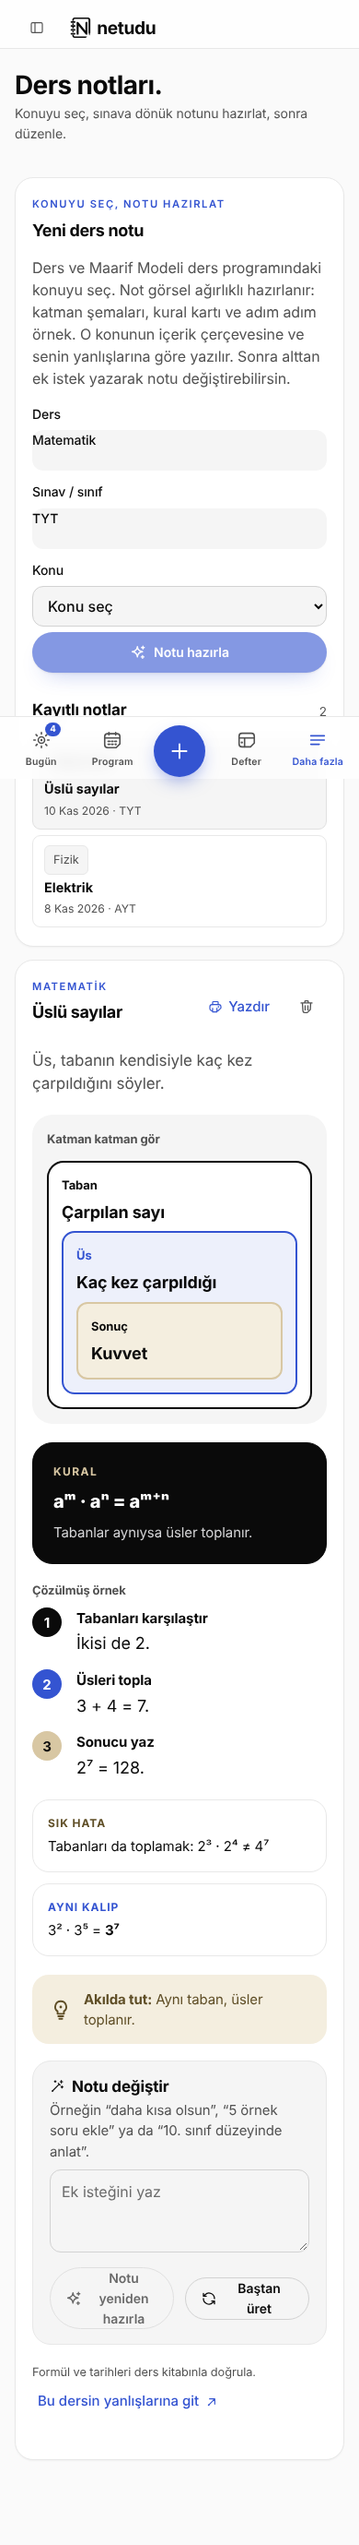
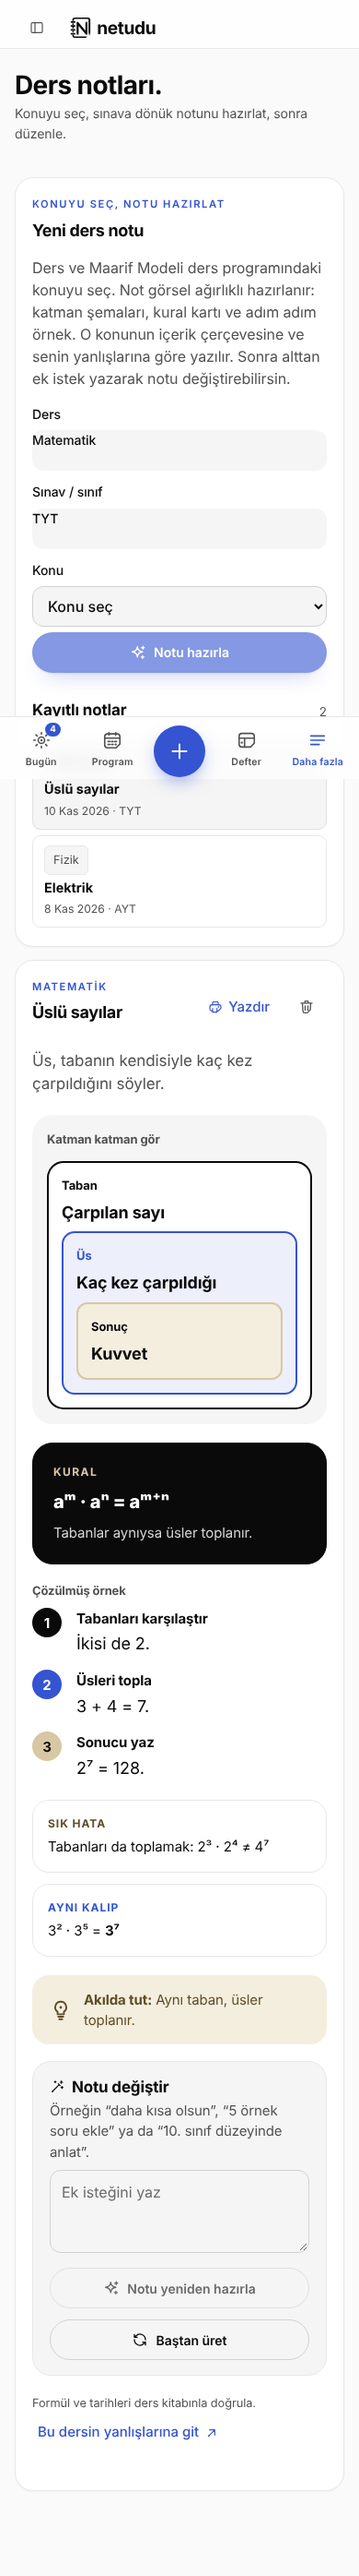
fix: inceleme 1 bulgulari (390px eylem kirilmasi, olu kod temizligi, PROOF tur 2)
Claude-Session: https://claude.ai/code/session_01LZzfsq4dMcPMMRDwuSXYis

diff --git a/app/study/report.tsx b/app/study/report.tsx
@@ -5,7 +5,7 @@ import {toast} from 'sonner';
 import {monthlyTopics,unrecognizedCount,prevMonth,today,type Goal,type Report} from '@/lib/study';
 import {useStudy,Empty,api,postJson,monthLabel,download,ApiError,QuotaNote} from './shared';
 import {subjectClass} from './archive';
-export function ReportView({month,setMonth,notes,setNotes,goals,setGoals,onPrint}:{month:string;setMonth:(m:string)=>void;notes:string;setNotes:(n:string)=>void;goals:Goal[];setGoals:(g:Goal[])=>void;onPrint:()=>void}){const s=useStudy();const {rows,ai,busy}=s;const topics=monthlyTopics(rows,month);const [loading,setLoading]=useState(false),[saved,setSaved]=useState(''),[previous,setPrevious]=useState<Report|null>(null),[working,setWorking]=useState(false),[newGoal,setNewGoal]=useState('');const monthRef=useRef(month);monthRef.current=month;const before=prevMonth(month);const prevTotal=rows.filter(q=>q.date.startsWith(before)).length;const total=rows.filter(q=>q.date.startsWith(month)).length;const unknown=unrecognizedCount(rows,month);
+export function ReportView({month,notes,setNotes,goals,setGoals,onPrint}:{month:string;notes:string;setNotes:(n:string)=>void;goals:Goal[];setGoals:(g:Goal[])=>void;onPrint:()=>void}){const s=useStudy();const {rows,ai,busy}=s;const topics=monthlyTopics(rows,month);const [loading,setLoading]=useState(false),[saved,setSaved]=useState(''),[previous,setPrevious]=useState<Report|null>(null),[working,setWorking]=useState(false),[newGoal,setNewGoal]=useState('');const monthRef=useRef(month);monthRef.current=month;const before=prevMonth(month);const prevTotal=rows.filter(q=>q.date.startsWith(before)).length;const total=rows.filter(q=>q.date.startsWith(month)).length;const unknown=unrecognizedCount(rows,month);
  useEffect(()=>{let cancelled=false;setLoading(true);setNotes('');setGoals([]);setSaved('');setPrevious(null);api('/api/reports?month='+month).then(d=>{if(cancelled)return;setNotes(d.report?.notes||'');setGoals(d.report?.goals||[]);setSaved(d.report?.updated_at||'');setPrevious(d.previous)}).catch(e=>{if(!cancelled&&!(e instanceof ApiError&&e.status===401))toast.error(e.message)}).finally(()=>{if(!cancelled)setLoading(false)});return()=>{cancelled=true}},[month,setNotes,setGoals]);
  async function save(generate=false,nextGoals=goals){setWorking(true);try{const d=await postJson('/api/reports',{month,...(generate?{generate:true}:{notes,goals:nextGoals})});if(monthRef.current!==month){if(generate)s.bumpUsage('report');return}setNotes(d.report!.notes);setGoals(d.report!.goals);setSaved(d.report!.updated_at);if(generate)s.bumpUsage('report');toast.success(generate?'Notların ve gelecek ay hedeflerin hazır.':'Rapor kaydedildi.')}catch(e){toast.error((e as Error).message)}finally{setWorking(false)}}
  async function togglePrevGoal(i:number){if(!previous)return;const g=previous.goals.map((x,j)=>j===i?{...x,done:!x.done}:x);setPrevious({...previous,goals:g});try{await postJson('/api/reports',{month:before,notes:previous.notes,goals:g})}catch(e){toast.error((e as Error).message)}}

diff --git a/scripts/preview/rapor-entry.tsx b/scripts/preview/rapor-entry.tsx
@@ -24,7 +24,7 @@ export const sampleNote=serializeNote({title:'Üslü sayılar',oneLiner:'Üs, ta
  mistakes:['Tabanları da toplamak: 2³ · 2⁴ ≠ 4⁷'],patterns:[{q:'3² · 3⁵',a:'3⁷'}],memory:'Aynı taban, üsler toplanır.'} as any);
 export const sampleNotes=[{id:'n1',subject:'Matematik',topic:'Üslü sayılar',exam_type:'TYT',content:sampleNote,prompt:'',updated_at:'2026-11-10T10:00:00Z'},{id:'n2',subject:'Fizik',topic:'Elektrik',exam_type:'AYT',content:'Düz metin not.',prompt:'',updated_at:'2026-11-08T10:00:00Z'}] as any[];
 const goals=[{text:'Paragrafta günde 10 soru',done:true},{text:'Hafta sonu bir TYT denemesi',done:false}];
-export const rapor=(o:any={})=>frame('report',<ReportView month="2026-11" setMonth={()=>{}} notes={o.empty?'':'Türev ve limitte işlem hatası yaptım; haftada iki kez tekrar edeceğim.'} setNotes={()=>{}} goals={o.empty?[]:goals} setGoals={()=>{}} onPrint={()=>{}}/>,{month:'2026-11',setMonth(){},onAddExam(){}});
+export const rapor=(o:any={})=>frame('report',<ReportView month="2026-11" notes={o.empty?'':'Türev ve limitte işlem hatası yaptım; haftada iki kez tekrar edeceğim.'} setNotes={()=>{}} goals={o.empty?[]:goals} setGoals={()=>{}} onPrint={()=>{}}/>,{month:'2026-11',setMonth(){},onAddExam(){}});
 export const denemeler=(o:any={})=>frame('exams',<ExamsView/>,{study:{exams:o.empty?[]:exams},month:'2026-11',setMonth(){},onAddExam(){}});
 export const notlar=(o:any={})=>frame('notes',<NotesView preset={null} initialNotes={o.empty?[]:sampleNotes} initialSelected={o.empty?null:sampleNotes[0]}/>);
 export const ayarlar=(tab:string,dev:boolean)=>frame('settings',<SettingsView initialTab={tab}/>,{dev});

diff --git a/app/styles/98-rapor-not-ayarlar.css b/app/styles/98-rapor-not-ayarlar.css
@@ -2,6 +2,8 @@
 /* Başlık eylemleri: ay seçici (ikincil) + Yazdır / PDF; Denemeler'de tek birincil "Deneme ekle" (mobilde de görünür) */
 .page-heading .month-select{display:inline-flex;align-items:center;gap:var(--s2);min-height:var(--h-btn);padding:0 var(--s3);border:1px solid var(--line);border-radius:var(--r-sm);background:var(--surface);color:var(--fg)}
 .page-heading .actions .month-select input{min-height:var(--h-btn);border:0;background-color:transparent;box-shadow:none;color:inherit;font:inherit;padding:0}
+.page-heading .actions .secondary{white-space:nowrap}
+.page-heading .month-select{min-width:0}
 .page-heading .actions .primary.heading-add{display:inline-flex;min-height:var(--h-btn);flex:0 0 auto}
 @media(max-width:767px){.page-heading .actions .primary.heading-add{flex:1 1 100%}.page-heading .month-select{flex:1 1 auto}}
 /* dokunma hedefi en az 44px */
@@ -34,6 +36,7 @@
 .view[data-view=notes] .note-actions{display:grid;grid-template-columns:repeat(2,minmax(0,1fr));gap:var(--s3)}
 .view[data-view=notes] .note-actions>*{width:100%}
 @media(max-width:1000px){.view[data-view=notes] .notes-layout{grid-template-columns:minmax(0,1fr)}}
+@media(max-width:480px){.view[data-view=notes] .note-actions{grid-template-columns:minmax(0,1fr)}.page-heading .month-select,.page-heading .actions .secondary{flex:1 1 100%;min-width:0}.settings-tablist [role=tab]{padding:0 var(--s3)}}
 .view[data-view=notes] .nv-memory{background:var(--champ-bg);color:var(--champ-ink)}
 /* Ayarlar: sekmeler + bölüm yığını; Kaydet bölümün sağ altında */
 .settings-tabs [data-slot=tabs]{display:flex;flex-direction:column;gap:var(--s4)}

diff --git a/app/styles/20-mobil-ve-tema.css b/app/styles/20-mobil-ve-tema.css
@@ -18,7 +18,7 @@
  .filter-bar{gap:8px}.filter-bar .search-field{flex:0 0 100%;min-width:100%}.filter-bar .choice,.filter-bar input[type=month]{flex:1 1 calc(50% - 4px);min-width:calc(50% - 4px)}
  .archive-toolbar{flex-direction:column;align-items:stretch;gap:10px}.archive-toolbar .actions{flex-wrap:wrap}.archive-toolbar .segmented{width:100%}.archive-toolbar .segmented button{flex:1;justify-content:center}
  .group>header{padding:12px 14px}.topic-head{padding:11px 14px}
- .report-toolbar{flex-wrap:wrap;gap:10px}.report-toolbar>.text-button{display:none}.report-layout,.settings-grid,.notes-layout{grid-template-columns:1fr;gap:14px}
+ .report-toolbar{flex-wrap:wrap;gap:10px}.report-layout,.notes-layout{grid-template-columns:1fr;gap:14px}
  .notification-strip{flex-wrap:wrap}.notification-strip .secondary{width:100%}
  .form-grid{grid-template-columns:1fr;gap:12px;margin:12px 0}.profile-panel .form-grid{grid-template-columns:1fr}
  input,select,textarea,.choice-native{font-size:16px!important}

diff --git a/app/study-app.tsx b/app/study-app.tsx
@@ -101,7 +101,7 @@ export default function StudyApp(){
  {view==='program'&&<ProgramView/>}
  {view==='resources'&&<ResourcesView/>}
  {view==='archive'&&<ArchiveView subject={subject} setSubject={setSubject} filteredRef={filteredRef} onPrint={()=>print()}/>}
- {view==='report'&&<ReportView month={month} setMonth={setMonth} notes={notes} setNotes={setNotes} goals={goals} setGoals={setGoals} onPrint={()=>print()}/>}
+ {view==='report'&&<ReportView month={month} notes={notes} setNotes={setNotes} goals={goals} setGoals={setGoals} onPrint={()=>print()}/>}
  {view==='exams'&&<ExamsView/>}
  {view==='notes'&&<NotesView preset={notesPreset}/>}
  {view==='settings'&&<SettingsView/>}

diff --git a/docs/proof/feat-rapor-not-ayarlar/PROOF.md b/docs/proof/feat-rapor-not-ayarlar/PROOF.md
@@ -31,13 +31,6 @@ Tam ölçüm: `olcum-sonraki.json` (60 ekran: rapor, rapor-bos, denemeler, denem
 | `ND_ZOD_PATH=/opt/npm-tools/node_modules/zod/index.js npm test` | tümü yeşil, atlanan yok | 99 test, 99 geçti, 0 kaldı, 0 atlandı (85 + 14 yeni) | 0 | PASS |
 | `node scripts/rapor-preview.mjs` (MODE=sonraki) | 60 ekranda sw==cw, kırpılan/küçük hedef yok, birincil ≤1 | 60/60 temiz | 0 | PASS |
 
-## Orkestratör doğrulaması
-- Test komutu tekrar çalıştırıldı:
-- `git diff --stat` kapsam kontrolü:
-- Aralık/Yeniden üretme:
-- Görseller:
-- Süreç/port temizliği:
-
 ## Kapsam dışı / bilinen eksikler
 - Radix Tabs/menüleri gerçek tarayıcıda doğrulanamadı; önizleme düz karşılık kullanır (ui-stubs). Sekme tıklaması, klavye gezinmesi, odak halkası ve `[role=tab]` stilinin Radix çıktısında tutması Vercel önizlemesinde teyit edilmeli.
 - recharts önizlemede düz kutu: çizgi/çubuk renkleri yalnız kaynak testiyle doğrulandı, gerçek çizim görülmedi.
@@ -56,3 +49,15 @@ Tam ölçüm: `olcum-sonraki.json` (60 ekran: rapor, rapor-bos, denemeler, denem
 
 - `ND_ZOD_PATH=/opt/npm-tools/node_modules/zod/index.js npm test` yeniden koşuldu: 99/99, çıkış 0.
 - Radix sekmeleri/menüleri, recharts ve `tsc` bu ortamda doğrulanamadı; Vercel önizlemesinde teyit gerekir.
+
+## Tur 2 (inceleme 1, SKOR 4 bulguları)
+- Kök neden: eşit genişlikli 2 sütunlu `.note-actions` grid'i ve `flex:1 1 auto` ay seçici 390px'te düğmeleri daraltıp metni 2-3 satıra kırdı.
+- Düzeltme (yalnız CSS, `@media(max-width:480px)`): `.note-actions` tek sütun; rapor başlığında ay seçici ve "Yazdır / PDF" tam genişlikte alt alta, `white-space:nowrap`, `min-width:0`. Ayarlar sekmelerinin iç boşluğu 480 altında `--s3`'e düşürüldü (geliştirici hesabında 5. sekme hâlâ yatay kaydırmayla ulaşılır, kısmen kırpık görünür).
+- Küçükler: `ReportView`'dan ölü `setMonth` parametresi kaldırıldı; önizleme betiği (aynı iki dal, boş `extra`, yarım yorum) ve testteki `const skip=false` temizlendi; ölü `.report-toolbar>.text-button` kuralı ve 20-mobil-ve-tema.css'teki `.settings-grid` seçici öğesi kaldırıldı (50-v10-v11.css ve 68. satırdaki `.settings-grid` kuralları başka dosyalarda olduğu için dokunulmadı).
+- Ölçüm: `scripts/rapor-preview.mjs`'e `kirikDugme` (düğme yüksekliği > 56px; `.note-list` kartları ve `.segmented` düğmeleri, tasarım gereği çok satırlı/ikonlu olduğundan hariç) denetimi eklendi: 60/60 ekranda kırık düğme 0, taşma 0, kırpılan 0, küçük hedef 0. notlar-390 eylem genişlikleri 282/282, rapor-390 başlık eylemleri 358/358.
+- Test: `npm test` 99/99 yeşil, çıkış 0. PNG'ler yenilendi; notlar-390, rapor-390, ayarlar-developer-gelistirici-390 gözle kontrol edildi.
+- Bilinen küçük sapmalar (kod değiştirilmedi): Supabase bölüm kaydetme sırası planla birebir değil; ayarlar form kırılma noktası 650px, notlar yerleşimi 1000px (planlanan tek değerden farklı).
+
+## Orkestratör doğrulaması (Tur 2)
+
+- `npm test` yeniden koşuldu: 99/99, çıkış 0; 60 ekranda kirikDugme/taşma/küçük hedef boş (yazar ölçümü).
